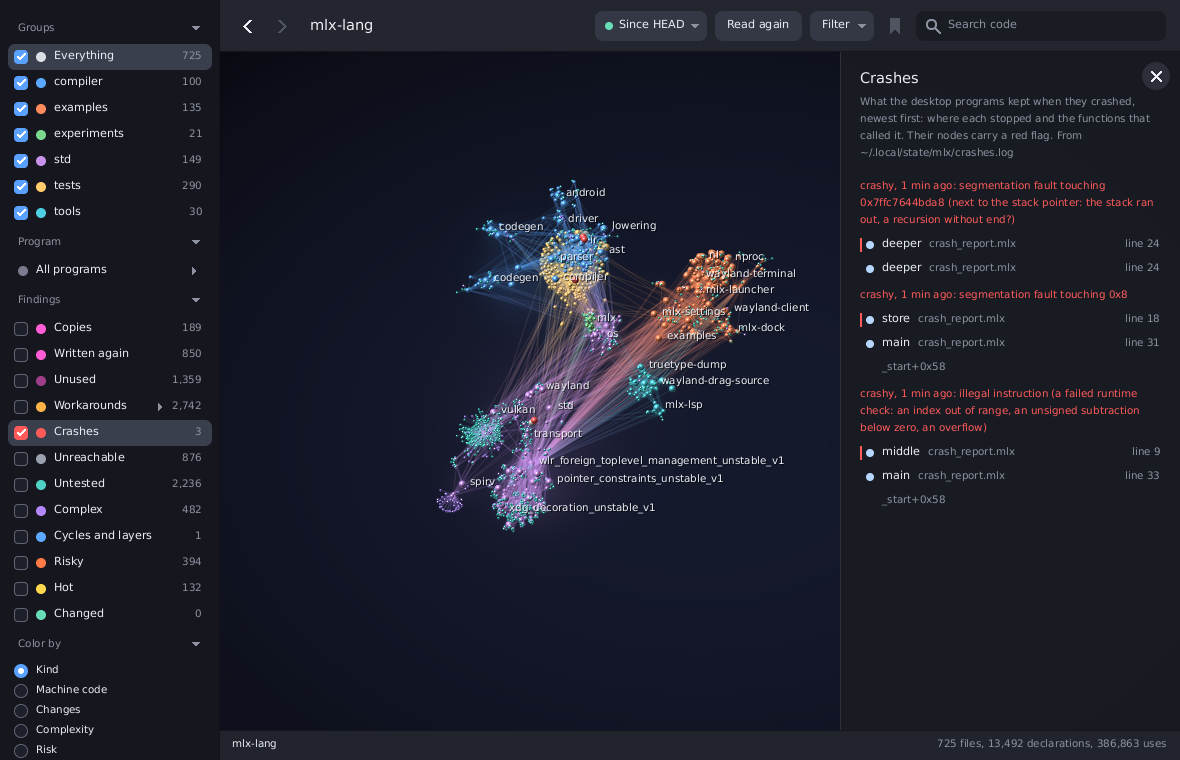
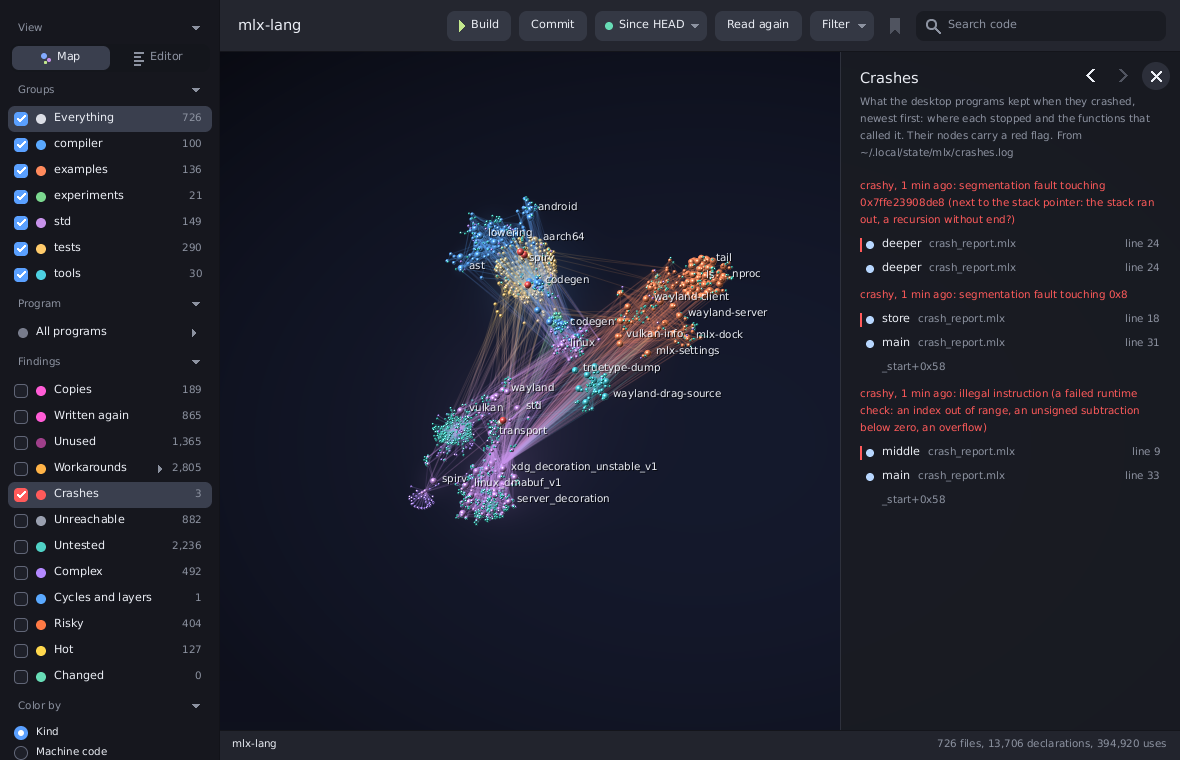
Observatory README: the IDE, the editor, Build and Commit; pictures of all of it
The pictures are taken again (the sidebar has the View switch now, the
toolbar Build and Commit), with six new ones of the editor, a hover, a
compiler error, the commit list, a build and the map after it; the tour
ends in the editor. The commit list says "1 changed file".

Claude-Session: https://claude.ai/code/session_01HQj5N4cya9N7LZQbRHDPT4

diff --git a/examples/mlx-observatory/README.md b/examples/mlx-observatory/README.md
@@ -1,6 +1,12 @@
 # MLX Observatory IDE
 
-The code base as a space to fly through. Every folder is a group with its
+An IDE for Mlx around a map of the code: fly through the code base,
+open what you find in the built-in editor, see the compiler's problems,
+the crashes, the workarounds and the time spent right on the lines, then
+build the program and commit, without leaving the window. *Observatory*
+for short.
+
+The map is the code base as a space to fly through. Every folder is a group with its
 files around it, and every file has its declarations around it: functions,
 structs, enums, constants, variables and tests. Structs have their fields
 and functions around them. Lines show what belongs where and which file
@@ -10,19 +16,25 @@ imports which. Select something and new lines show what it connects to:
 - orange for what calls, uses or imports it.
 
 The panel on the right lists the same connections, with the signature and
-the doc comment. It is laid out like the file manager
-([`examples/mlx-files`](../mlx-files/main.mlx)): the groups in a
-translucent sidebar, back and forward, the name and a search field in the
-toolbar, and where you are in the status bar.
+the doc comment, and has back and forward at its top. It is laid out like
+the file manager ([`examples/mlx-files`](../mlx-files/main.mlx)): the
+groups in a translucent sidebar, the name, Build, Commit and a search
+field in the toolbar, and where you are in the status bar.
+
+At the top of the sidebar, *View* switches between the **Map** and the
+**Editor** (Ctrl+E); see [The editor](#the-editor) and
+[Build and commit](#build-and-commit).
 
 ![A flight through this repository: the galaxy turns, a search finds
 drawSidebar, the camera flies to it and to its group, the spheres take
-the colors of where the time goes, then the crashes.](screenshots/tour.gif)
+the colors of where the time goes, then the crashes, and the hottest
+function opens in the editor.](screenshots/tour.gif)
 
 All pictures here are of this whole repository, with real data: the
 crashes of [`tests/support/crash_report.mlx`](../../tests/support/crash_report.mlx),
 profiles of `mlx-codemap` itself under `mlx-profile`, the programs built,
-and the Git history. [`tools/observatory_screenshots.sh`](../../tools/observatory_screenshots.sh)
+and the Git history. The editor's pictures edit a real file and put it
+back. [`tools/observatory_screenshots.sh`](../../tools/observatory_screenshots.sh)
 takes them again (see [Pictures](#pictures)).
 
 ```
@@ -119,6 +131,32 @@ what does not answer is left out; the field counts what does.</td>
 <td><img src="screenshots/views.png" alt="Views, with sections folded up"><br>
 <b>Views.</b> Queries kept in <code>codemap.views</code>, at the end of
 the sidebar; every section folds up.</td>
+</tr>
+<tr>
+<td><img src="screenshots/editor.png" alt="scanFile in the editor"><br>
+<b>The editor.</b> The hottest function of the profiles: the heat bar by
+the line numbers, the code lens (uses, machine code, commits, time),
+the panel still on the declaration at the cursor.</td>
+<td><img src="screenshots/editor-hover.png" alt="Hovering a call"><br>
+<b>Hover.</b> What a name is, from the index: its signature, uses,
+machine code and commits.</td>
+</tr>
+<tr>
+<td><img src="screenshots/editor-problem.png" alt="A compiler error on its line"><br>
+<b>The compiler's problems.</b> Saved with a name nobody declared: the
+compiler's errors on their lines, the changed line marked, the count and
+the message at the cursor in the status bar.</td>
+<td><img src="screenshots/commit.png" alt="The commit list"><br>
+<b>Commit.</b> The changed files and a message; Enter commits,
+<i>Commit and push</i> pushes too.</td>
+</tr>
+<tr>
+<td><img src="screenshots/build.png" alt="Built"><br>
+<b>Build.</b> The program that reaches the file shown, into
+<code>mlx-out/bin</code>, in the background.</td>
+<td><img src="screenshots/map-after-editor.png" alt="Back in the map"><br>
+<b>Back to the map.</b> The map reads the saved files again and stands
+on the declaration the cursor was on.</td>
 </tr>
 </table>
 
@@ -294,6 +332,75 @@ The command line lists the same findings: `mlx-codemap copies [PATH]`,
 `mlx-codemap names [PATH]`, `mlx-codemap unused [PATH]`,
 `mlx-codemap workarounds [PATH]` and `mlx-codemap crashes [PATH]`.
 
+## The editor
+
+*Open in editor* in the panel, Ctrl+O, or a click on a result while the
+Editor is shown opens a declaration's file at its line
+([`editor.mlx`](editor.mlx)). Up to six files are open as tabs; a dot
+marks one with edits not saved, and its x closes it (Shift+click closes
+one not saved). When all six hold edits, a seventh file does not open
+until one is saved or closed.
+
+- **Colors:** keywords, types, builtins, strings, numbers, comments, doc
+  comments, calls and constants, in the colors of the map's kinds.
+- **The gutter:** lines added (green), changed (blue) and removed (red)
+  since the base of Changed; the compiler's errors and warnings (dots);
+  where a crash stopped or went through, and workarounds. By the line
+  numbers, a bar in the heat colors shows how much time each declaration
+  took in the profiles.
+- **Code lens:** after a declaration's first line, how often it is used,
+  its machine code, its commits, its risk, its crashes and its share of
+  the time.
+- **Hover:** a name's declaration from the index (signature, uses,
+  machine code, commits).
+- **Go to the declaration:** Ctrl+click or F12; back (the panel's arrow,
+  Alt+Left) returns to where you came from, in the editor.
+- **Map and editor together:** the panel follows the declaration at the
+  cursor; *Show in map* switches to the map and flies there.
+- **The compiler's problems:** each file is checked when it opens and
+  when it is saved (the compiler runs in the background, as for
+  `mlx-lsp`). Errors and warnings are underlined, their message is at
+  the end of the line and, for the cursor's line, in the status bar.
+- **Saving** (Ctrl+S, *Save*) writes the file; the next switch to the map
+  reads the code again, so the map, the findings and the Changed marks
+  follow the edit.
+
+| | |
+|---|---|
+| arrows, Ctrl+arrows | move, by words |
+| Shift+ | select |
+| Home, End, Page Up, Page Down, Ctrl+Home, Ctrl+End | line, page, file |
+| click, double click, drag | the cursor, a word, a selection |
+| Enter, Tab | a new line with the indent (one more after `{`), spaces to the next stop of four |
+| Backspace, Delete (Ctrl: a word) | delete |
+| Ctrl+Z, Ctrl+Shift+Z, Ctrl+Y | undo, redo |
+| Ctrl+A, Ctrl+C, Ctrl+X, Ctrl+V | select all, copy, cut, paste |
+| Ctrl+S | save |
+| F12, Ctrl+click | go to the declaration |
+| Escape | drop the selection (the file stays) |
+| Ctrl+E | back to the map |
+| Ctrl+Shift+O | open the file in the outside editor (`MLX_EDITOR`, else VS Code, else `xdg-open`) |
+
+## Build and commit
+
+**Build** (toolbar, Ctrl+B) saves the edited tabs and builds a program
+into `ROOT/mlx-out/bin/NAME` in the background: in the editor, the
+program whose `main` is the file shown, else the one chosen under
+Program, else the first program that reaches the file; in the map, the
+one chosen under Program. The status bar says how long it took; a failed
+build opens its first error in the editor. The new binary's machine code
+goes on the declarations at once.
+
+**Commit** (toolbar; the number is how many files changed) lists the
+changed files (`git status`) and takes a message. Enter or *Commit*
+saves the edited tabs and runs `git add -A` and `git commit`; Ctrl+Enter
+or *Commit and push* also runs `git push -u origin HEAD`. Git runs in the
+background; the status bar says how it went (with Git's own error when it
+failed), and Changed and the editor's marks follow.
+
+The compiler for checks and Build is `$MLX_COMPILER`, else the root's
+`mlx-out/bin/compiler/mlx4`, else `mlx4` on the `PATH`.
+
 ## Using it
 
 | | |
@@ -306,18 +413,22 @@ The command line lists the same findings: `mlx-codemap copies [PATH]`,
 | typing, Ctrl+F, / | search; Enter or a click flies to a result |
 | a query in the search | leaves out what does not answer it (see Queries); Enter flies to what is left |
 | Filter (toolbar) | adds a query word to the search: first what fits the selection (in its group, calls it, called by it, uses it), then the findings and kinds |
-| the bookmark, Ctrl+S | keeps the query in the search as a view (codemap.views) |
+| the bookmark, Ctrl+S (in the map) | keeps the query in the search as a view (codemap.views) |
 | Since ... (toolbar) | the base of Changed: not committed yet, or one of the last 15 commits |
 | a section's heading | folds it up or opens it (kept in `~/.config/mlx/observatory-sections`) |
-| Escape | clear the search, then the selection, then go up a group |
+| Escape | close a list, clear the search, then the selection, then go up a group (in the editor: only the list and the search) |
 | Enter | fly to the selection |
 | Alt+Up | its group |
-| Backspace, Alt+Left / Alt+Right | back / forward |
+| Backspace, Alt+Left / Alt+Right, the arrows at the top of the panel | back / forward |
 | arrows | turn |
 | Home | everything |
-| Ctrl+O, "Open in editor" | open it at its line: `MLX_EDITOR`, else VS Code (`code -g`), else `xdg-open` |
+| Ctrl+O, "Open in editor" | open it at its line in the editor |
+| Ctrl+Shift+O | open it in the outside editor: `MLX_EDITOR`, else VS Code (`code -g`), else `xdg-open` |
+| Ctrl+E, View (sidebar) | switch between the map and the editor |
+| Ctrl+B, Build | build (see Build and commit) |
+| Commit | commit, or commit and push |
 | F5, Ctrl+R, "Read again" | read the code again, keeping the selection |
-| Ctrl+W | close |
+| Ctrl+W | close (with tabs not saved: press it twice) |
 
 The sidebar lists the groups, and the groups inside them on the way to
 what is selected, with how many files each holds. A click flies there.
@@ -472,7 +583,10 @@ is smooth however long a frame takes to draw.
 needs, makes the data (crashes, profiles, built programs, the history of
 the last 20 commits), plays a tour and a script with a picture per
 feature on lavapipe, and writes the PNGs and the GIF (with Python and
-Pillow) into `screenshots/`. It takes about a quarter of an hour.
+Pillow) into `screenshots/`. It takes about a quarter of an hour;
+`MLX_SHOTS_ONLY=tour|features|editor` plays one part. The editor's part
+edits `tools/codemap/workarounds.mlx` and puts it back (it has to be
+committed).
 
 ## Checks
 
@@ -495,7 +609,11 @@ Pillow) into `screenshots/`. It takes about a quarter of an hour.
    has the app print what it read and selected, the crashes it put on
    declarations, and how much each finding shows.
 4. Compares the pictures from both runs.
-5. Plays a small demo script and checks the frames it wrote.
+5. Plays a small demo script and checks the frames it wrote. In it, the
+   editor opens a file, goes to a declaration with F12, saves a name
+   nobody declared and gets the compiler's error on its line, undoes it;
+   Build builds the program; Commit commits an edit with its message;
+   Escape keeps the editor's file; the map reads the saved files again.
 
 `tools/check_crash_report.sh` checks the crash reports themselves: the
 symbol table, the functions a crash names and the kept log.
